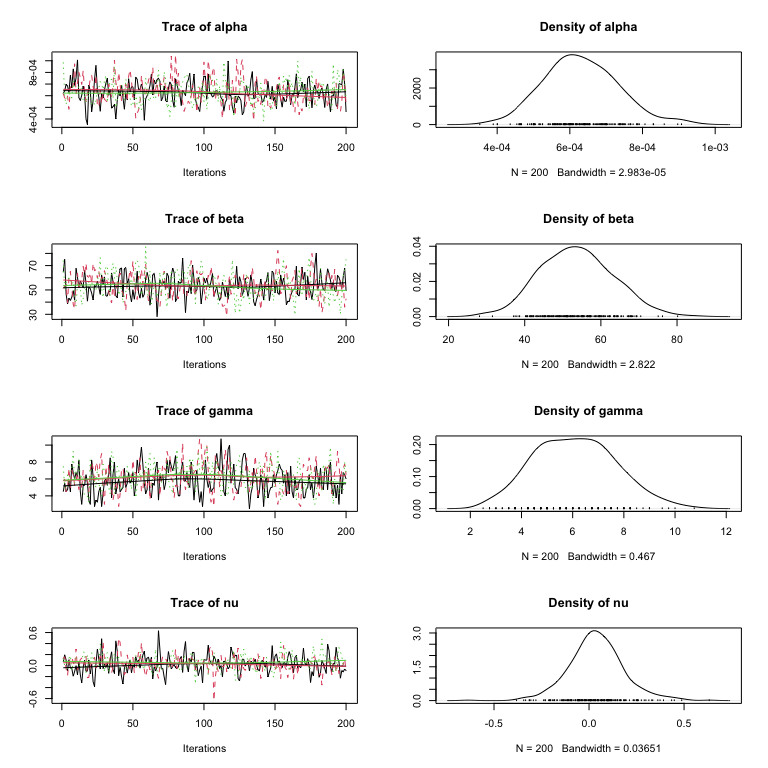
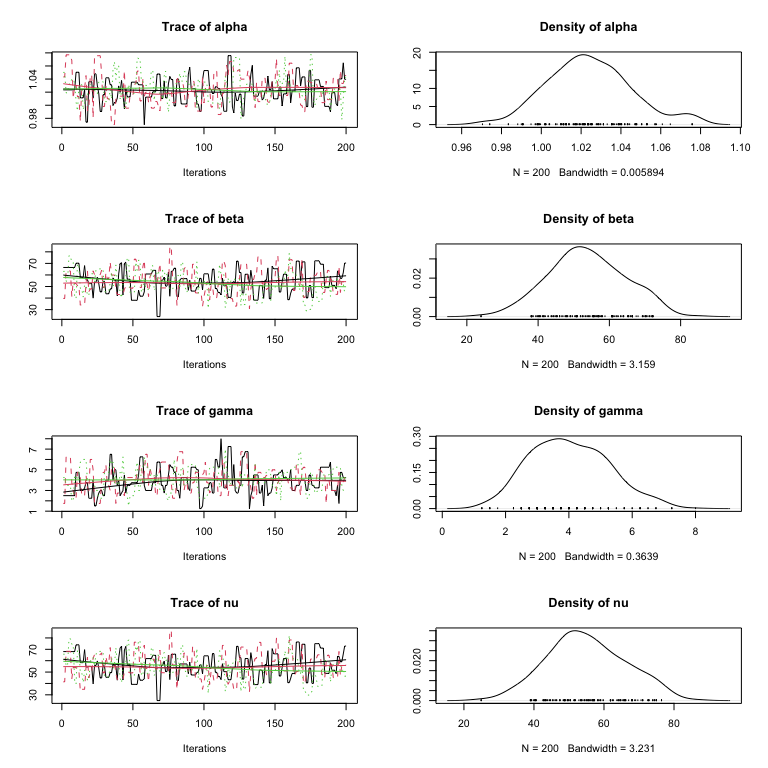
Improve example in README.Rmd.

diff --git a/README.md b/README.md
@@ -38,11 +38,9 @@ remotes::install_github('r-gregmisc/mcgibbsit')
 
 ## Example
 
-This basic example constructs a dummy set of files for 20 MCMC runs from
-an *imaginary* MCMC sampler and shows the results of running `mcgibbsit`
-with the default settings, which calculate the total number of samples
-needed to provide accurate 95% posterior confidence region estimates for
-all four of the parameters.
+This basic example constructs a dummy set of files from an *imaginary*
+MCMC sampler and shows the results of running `mcgibbsit` with the
+default settings.
 
 ``` r
 library(mcgibbsit)
@@ -50,7 +48,6 @@ library(mcgibbsit)
 
 ###
 # Create example data files for 20 independent chains
-# with serial correlation of 0.25
 ###
 
 set.seed(42)
@@ -64,20 +61,24 @@ gen_samples <- function(run_id)
   x <- matrix(nrow = nsamples+1, ncol=4)
   colnames(x) <- c("alpha","beta","gamma", "nu")
   
-  x[,"alpha"] <- rnorm (nsamples+1, mean=0.025, sd=0.0025)^2
-  x[,"beta"]  <- rnorm (nsamples+1, mean=53,    sd=12)
-  x[,"gamma"] <- rbinom(nsamples+1, 20,         p=0.25) + 1
+  x[,"alpha"] <- exp(rnorm (nsamples+1, mean=0.025, sd=0.025))
+  x[,"beta"]  <- rnorm (nsamples+1, mean=53,    sd=14)
+  x[,"gamma"] <- rbinom(nsamples+1, 20,         p=0.15) + 1
   x[,"nu"]    <- rnorm (nsamples+1, mean=x[,"alpha"] * x[,"beta"], sd=1/x[,"gamma"])
 #'
   # induce serial correlation of 0.25
   x <- 0.75 * x[2:(nsamples+1),] + 0.25 * x[1:nsamples,]
-  
-  
+
+  # induce ~50% acceptance rate
+  accept <- runif(nsamples) > 0.50
+  for(i in 2:nsamples)
+    if(!accept[i]) x[i,] <- x[i-1,]
+
   write.table(
     x,
     file = file.path(
       tmpdir,
-      paste("mcmc", i, "csv", sep=".")
+      paste("mcmc", run_id, "csv", sep=".")
       ),
     sep = ",",
     row.names = FALSE
@@ -107,7 +108,9 @@ plot(mcmc.3)
 
 <img src="man/figures/README-trace_density_plot_3-1.png" width="100%" />
 
-Now run `mcgibbsit` to determine the necessary number of MCMC samples:
+Now run `mcgibbsit` to determine the necessary total number of MCMC
+samples to to provide accurate 95% posterior confidence region estimates
+for all four of the parameters:
 
 ``` r
 # And check the necessary run length 
@@ -130,30 +133,30 @@ print(mcg.3)
 #>       Burn-in  Estimation Total Lower bound  Auto-Corr. Between-Chain   
 #>       (M)      (N)        (M+N) (Nmin)       factor (I) Corr. factor (R)
 #>                                                                         
-#> alpha 12       823        835   600          1.27       1.090           
-#> beta  6        548        554   600          0.96       0.953           
-#> gamma 9        660        669   600          1.16       0.951           
-#> nu    12       725        737   600          1.27       0.957           
+#> alpha 24       1301       1325  600          2.28       0.955           
+#> beta  33       1830       1863  600          3.22       0.951           
+#> gamma 27       1932       1959  600          2.74       1.180           
+#> nu    33       1849       1882  600          3.22       0.961           
 #>       -----    -----      ----- -----        -----      -----           
-#>       12       823        835                                           
+#>       33       1932       1965                                          
 #> 
 #> NOTE: The values for M, N, and Total are combined numbers of iterations 
 #>       based on using 3 chains.
 ```
 
 **Interpretation**: `mcgibbsit` estimated that a total of required
-number of samples is 835, which is less than we’ve generated so far.
+number of samples is 1,959, which is less than we’ve generated so far.
 
-Just to be safe we’ll add 3 more runs for a total of 6 runs, each of
-length 200, for a total of 1,200 samples
+Just to be safe we’ll add 7 more runs, each of length 200, for a total
+of 2,000 samples:
 
 ``` r
-# Generate and load 3 runs 
-for(i in 4:6)
+# Generate and load 7 more runs 
+for(i in 3 + (1:7))
   gen_samples(i)
   
-mcmc.6 <- read.mcmc(
-  6, 
+mcmc.10 <- read.mcmc(
+  10, 
   file.path(tmpdir, "mcmc.#.csv"), 
   sep=",",
   col.names=c("alpha","beta","gamma", "nu")
@@ -162,25 +165,25 @@ mcmc.6 <- read.mcmc(
 
 ``` r
 # Trace and Density Plots
-plot(mcmc.6)
+plot(mcmc.10)
 ```
 
-<img src="man/figures/README-trace_density_plot_6-1.png" width="100%" />
+<img src="man/figures/README-trace_density_plot_10-1.png" width="100%" />
 
 Now run `mcgibbsit` to determine the necessary number of MCMC samples:
 
 ``` r
 # And check the necessary run length 
-mcg.6 <- mcgibbsit(mcmc.6)
-print(mcg.6)
+mcg.10 <- mcgibbsit(mcmc.10)
+print(mcg.10)
 #>                   Multi-Chain Gibbsit 
 #>                   ------------------- 
 #> 
-#> Call             = mcgibbsit(data = mcmc.6)
+#> Call             = mcgibbsit(data = mcmc.10)
 #> 
-#> Number of Chains = 6 
+#> Number of Chains = 10 
 #> Per-Chain Length = 200 
-#> Total Length     = 1200 
+#> Total Length     = 2000 
 #> 
 #> Quantile (q)     = 0.025 
 #> Accuracy (r)     = +/- 0.0125 
@@ -190,18 +193,49 @@ print(mcg.6)
 #>       Burn-in  Estimation Total Lower bound  Auto-Corr. Between-Chain   
 #>       (M)      (N)        (M+N) (Nmin)       factor (I) Corr. factor (R)
 #>                                                                         
-#> alpha 24       662        686   600          1.27       0.874           
-#> beta  24       881        905   600          1.36       1.090           
-#> gamma 18       862        880   600          1.46       0.988           
-#> nu    12       525        537   600          0.998      0.878           
+#> alpha 90       1534       1624  600          2.76       0.933           
+#> beta  110      1743       1853  600          3.11       0.940           
+#> gamma 90       1820       1910  600          3.19       0.955           
+#> nu    100      1569       1669  600          2.79       0.942           
 #>       -----    -----      ----- -----        -----      -----           
-#>       24       881        905                                           
+#>       110      1820       1930                                          
 #> 
 #> NOTE: The values for M, N, and Total are combined numbers of iterations 
-#>       based on using 6 chains.
+#>       based on using 10 chains.
 ```
 
-**Interpretation**: `mcgibbsit` estimated that a total of required
-number of samples is 905, and since we we have already generated 1,200
-samples across the 6 runs, we do not need to perform any additional runs
-of our MCMC sampler.
+**Interpretation**: `mcgibbsit` now estimates that a total of required
+number of samples is 1,910 (this is slightly fewer than before because
+the the larger number of samples allowed more accurate estimates of the
+variances and correlations). Since we we have already generated 2,000
+samples, we do not need to perform any additional runs of our MCMC
+sampler.
+
+We can now calculate the posterior confidence regions for each of the
+parameters.
+
+``` r
+summary(mcmc.10)
+#> 
+#> Iterations = 1:200
+#> Thinning interval = 1 
+#> Number of chains = 10 
+#> Sample size per chain = 200 
+#> 
+#> 1. Empirical mean and standard deviation for each variable,
+#>    plus standard error of the mean:
+#> 
+#>         Mean       SD  Naive SE Time-series SE
+#> alpha  1.026  0.02033 0.0004546       0.000787
+#> beta  53.012 11.10534 0.2483230       0.433342
+#> gamma  4.024  1.24685 0.0278804       0.046729
+#> nu    54.391 11.50530 0.2572663       0.438652
+#> 
+#> 2. Quantiles for each variable:
+#> 
+#>          2.5%    25%    50%    75% 97.5%
+#> alpha  0.9892  1.012  1.025  1.039  1.07
+#> beta  31.1137 45.587 52.633 60.664 73.74
+#> gamma  1.7500  3.000  4.000  4.750  6.75
+#> nu    32.3646 46.484 54.455 61.896 76.44
+```
